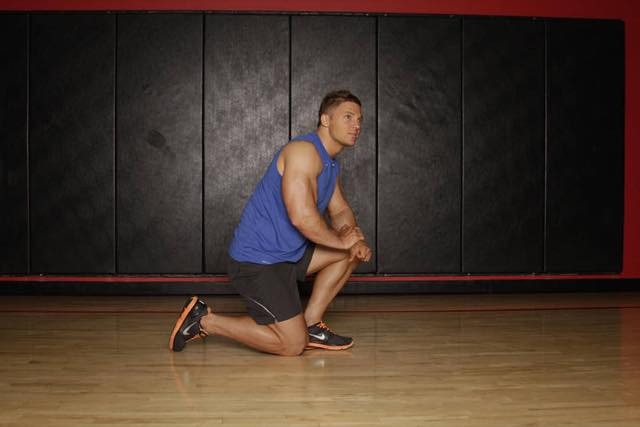
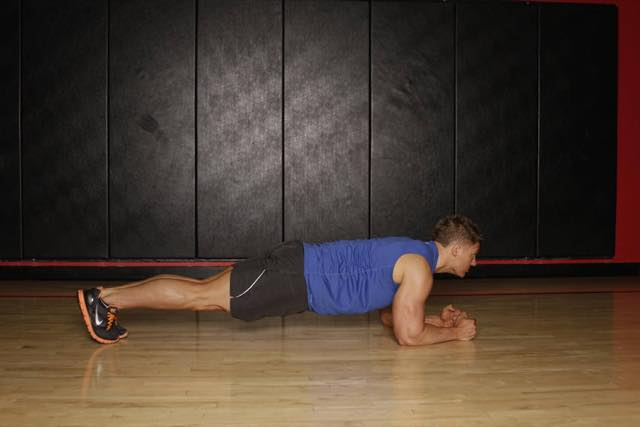
fix(media): plank holds show the hold photo in both frames (the source start photo kneels)

diff --git a/docs/exercise-photos.md b/docs/exercise-photos.md
@@ -89,7 +89,7 @@ Tier: `exact` / `strong` / `weak` = the automatic name match picked this photo t
 | Shoulder Press (Machine) (`machine-shoulder-press`) | Schouderpress (machine) | Machine Shoulder (Military) Press (`Machine_Shoulder_Military_Press`) | manual |  |
 | Negative Pull-Up (`negative-pull-up`) | Negatief optrekken | Pullups (`Pullups`) | strong | start/end swapped; swapped: a negative starts at the top |
 | Pec Deck Fly (`pec-deck-fly`) | Pec deck fly | Butterfly (`Butterfly`) | manual | start/end swapped; swapped: start with the arms open |
-| Plank (`plank`) | Plank | Plank (`Plank`) | exact | start photo kneels (getting into position) |
+| Plank (`plank`) | Plank | Plank (`Plank`) | exact | hold photo in both frames; static hold: the hold photo is used for both frames (the source start photo kneels) |
 | Pull-Up (`pull-up`) | Optrekken | Pullups (`Pullups`) | exact |  |
 | Push-up (`push-up`) | Opdrukken | Pushups (`Pushups`) | exact |  |
 | Reverse Crunch (`reverse-crunch`) | Reverse crunch | Reverse Crunch (`Reverse_Crunch`) | exact |  |
@@ -107,7 +107,7 @@ Tier: `exact` / `strong` / `weak` = the automatic name match picked this photo t
 | Straight-Arm Pulldown (`straight-arm-pulldown`) | Straight-arm pulldown | Straight-Arm Pulldown (`Straight-Arm_Pulldown`) | exact |  |
 | Superman Hold (`superman-hold`) | Superman houden | Superman (`Superman`) | weak |  |
 | V-Up (`v-up`) | V-up | Jackknife Sit-Up (`Jackknife_Sit-Up`) | manual |  |
-| Voorwaartse plank (`voorwaartse-plank`) | Voorwaartse plank | Plank (`Plank`) | weak | start photo kneels (getting into position) |
+| Voorwaartse plank (`voorwaartse-plank`) | Voorwaartse plank | Plank (`Plank`) | weak | hold photo in both frames; static hold: the hold photo is used for both frames (the source start photo kneels) |
 | Walking Lunges (`walking-lunges`) | Wandelende uitvalspassen | Bodyweight Walking Lunge (`Bodyweight_Walking_Lunge`) | manual |  |
 | Zijwaartse plank (`zijwaartse-plank`) | Zijwaartse plank | Side Bridge (`Side_Bridge`) | manual |  |
 
